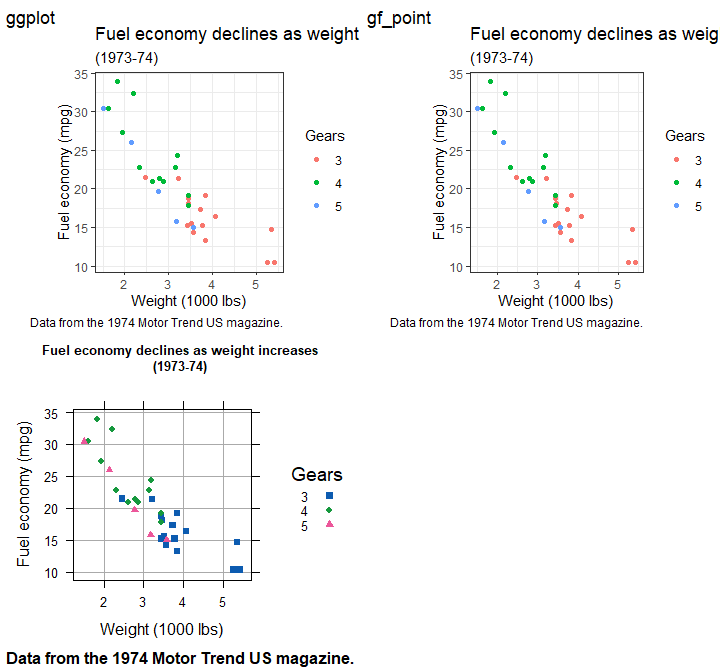
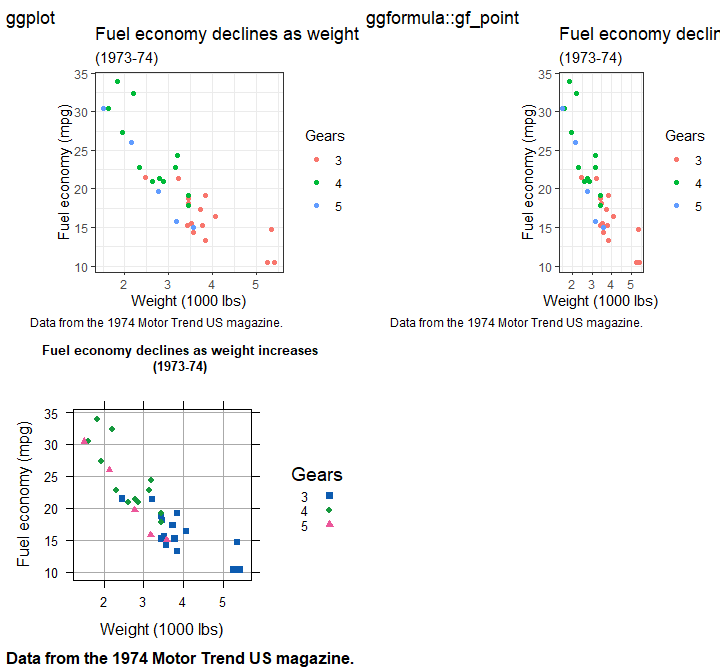
Dokumentation

diff --git a/README.md b/README.md
@@ -20,20 +20,12 @@ status](https://www.r-pkg.org/badges/version/stp25stat2)](https://CRAN.R-project
 
 ### Likertplot
 
+Die Link-Plots habe ich in ein separates Paket ausgelagert. Dort sind
+auch die Funktionen zur Erstellung der Tabellen enthalten.
+
 ``` r
 library(stp25likert)
 ```
-
-    ## Registered S3 method overwritten by 'stp25likert':
-    ##   method       from      
-    ##   print.likert stp25stat2
-
-    ## 
-    ## Attaching package: 'stp25likert'
-
-    ## The following objects are masked from 'package:stp25stat2':
-    ## 
-    ##     Likert, Tbll_likert
 
 ``` r
 #Res1 <- Tbll_likert( ~ ., DF2[, -5])
@@ -770,35 +762,28 @@ The cowplot package is a simple add-on to ggplot.
 
 ``` r
 library(ggplot2)
-
 library(grid)
 library(gridExtra)
 library(cowplot)
 
-
 theme_set(theme_half_open())
-set.seed(0815)                               # Create example data
-
+set.seed(0815)
+# Create example data
 data <-
   data.frame(x = 1:21,
-             # Create example data
              y = rnorm(21),
              group = rep(letters[1:3], 7))
-
+# Create ggplot2 plot
 p1 <-
-  ggplot(data, aes(x, y, color = group)) +    # Create ggplot2 plot
+  ggplot(data, aes(x, y, color = group)) +    
   geom_point(size = 5) +
   geom_line() # Draw default ggplot2 plot
 
-
 p2 <- ggplot(data, aes(x, group , color = group)) + geom_boxplot()
-
-
 
 title <-
   ggdraw() +
   draw_label("Arrange Plots", fontface = 'bold')
-
 
 p1 <- p1 +
   guides(colour = guide_legend(
@@ -811,7 +796,6 @@ p1 <- p1 +
       )
   )) +
   theme(legend.position  = c(.2, .5))
-
 
 legend <- get_legend(p1)
 ```
@@ -832,14 +816,10 @@ p2 <-
             ncol = 1,
             rel_heights = c(1, .5))
 
-
 plot_grid(
-  title,
-  NULL,
-  p1,
-  p2,
+  title, NULL,
+  p1,      p2,
   nrow = 2,
-  
   rel_widths =  c(1, .6),
   rel_heights = c(0.2, 1)
 )
@@ -908,7 +888,6 @@ display distributions of a quantitative variable
 *gf_bar()* for more general bar-graph style graphics
 
 ``` r
-#require(ggplot2)
 require(ggformula)
 ```
 
@@ -925,8 +904,7 @@ require(ggformula)
 
 ``` r
 #require(lattice)
- 
-
+#require(ggplot2) 
 theme_set(theme_bw())
 
 mtcars2 <- within(mtcars, {
@@ -935,6 +913,7 @@ mtcars2 <- within(mtcars, {
   cyl  <- factor(cyl)
   gear <- factor(gear)
 })
+
 #' ggplot
 p1 <- 
   ggplot(mtcars2) +
@@ -948,6 +927,7 @@ p1 <-
     y = "Fuel economy (mpg)",
     colour = "Gears"
   )
+
 #' ggformula
 p2 <-  
   gf_point(mpg ~ wt , data = mtcars2, color = ~ gear) +
@@ -955,11 +935,12 @@ p2 <-
     title = "Fuel economy declines as weight increases",
     subtitle = "(1973-74)",
     caption = "Data from the 1974 Motor Trend US magazine.",
-    tag = "gf_point",
+    tag = "ggformula::gf_point",
     x = "Weight (1000 lbs)",
     y = "Fuel economy (mpg)",
     colour = "Gears"
   )
+
 #' lattice 
 p3 <- 
   xyplot(
@@ -985,13 +966,19 @@ cowplot::plot_grid(p1, p2, p3, ncol=2)
 
 ### Meine Version vs plot.efflist
 
+Die Effectplots habe ich aus dem Package ‘effects’ übernommen, jedoch
+die Übergabe der Attribute angepasst, um die Formatierung zu
+vereinfachen.
+
 ``` r
+# Klassiker
 plot( effects::allEffects(fit2) )
 ```
 
 ![](README_files/figure-gfm/unnamed-chunk-17-1.png)<!-- -->
 
 ``` r
+# neue Version
 plot2( effects::allEffects(fit2) )
 ```
 
@@ -1014,17 +1001,52 @@ p1 <- plot2(e2,
 ```
 
 ``` r
-p2<-plot2(e2,
-  labels = stp25tools::get_label(mtcars2),
-  plot=FALSE)
+p2 <- plot2(e2, 
+            labels = stp25tools::get_label(mtcars2), 
+            plot = FALSE)
 
-cowplot::plot_grid(plotlist =p2, 
-                   labels = c('A', 'B', 'C'),
-                  # scale = c(1, .9, .8),
-                   rel_heights = c(3,4))
+cowplot::plot_grid(
+  plotlist = p2,
+  labels = c('A', 'B', 'C'),
+  # scale = c(1, .9, .8),
+  rel_heights = c(3, 4)
+)
 ```
 
 ![](README_files/figure-gfm/unnamed-chunk-20-1.png)<!-- -->
+
+``` r
+top_row <- cowplot::plot_grid(p2[[1]], p2[[2]], labels = c('B', 'C'), label_size = 12)
+cowplot::plot_grid(top_row, p2[[3]], labels = c('', 'A'), label_size = 12, ncol = 1)
+```
+
+![](README_files/figure-gfm/unnamed-chunk-21-1.png)<!-- -->
+
+``` r
+library(multipanelfigure)
+
+figure1 <- multi_panel_figure(columns = 4, rows = 2, panel_label_type = "none")
+# show the layout
+figure1
+```
+
+![](README_files/figure-gfm/unnamed-chunk-22-1.png)<!-- -->
+
+``` r
+figure1 %<>%
+  fill_panel(p2[[1]], column = 1:2, row = 1) %<>%
+  fill_panel(p2[[2]], column = 3:4, row = 1) %<>%
+  fill_panel(p2[[3]], column = 1:3, row = 2)  
+```
+
+    ## Warning in grabDL(warn, wrap, wrap.grobs, ...): one or more grobs overwritten
+    ## (grab WILL not be faithful; try 'wrap.grobs = TRUE')
+
+``` r
+figure1
+```
+
+![](README_files/figure-gfm/unnamed-chunk-22-2.png)<!-- -->
 
 Konfidenz-Band mit *geom_ribbon()*
 
@@ -1308,7 +1330,7 @@ p1 + p2 + p3 + p4 + plot(mydf) +
     plot_layout(ncol=2)
 ```
 
-![](README_files/figure-gfm/unnamed-chunk-27-1.png)<!-- -->
+![](README_files/figure-gfm/unnamed-chunk-29-1.png)<!-- -->
 
 ``` r
 require(ggeffects)
@@ -1370,7 +1392,7 @@ p1 <-plot(mydf)
 p1
 ```
 
-![](README_files/figure-gfm/unnamed-chunk-28-1.png)<!-- -->
+![](README_files/figure-gfm/unnamed-chunk-30-1.png)<!-- -->
 
 ``` r
 p1 +
@@ -1378,7 +1400,7 @@ p1 +
   theme(legend.position = "none")
 ```
 
-![](README_files/figure-gfm/unnamed-chunk-28-2.png)<!-- -->
+![](README_files/figure-gfm/unnamed-chunk-30-2.png)<!-- -->
 
 ``` r
 #plot(allEffects(mod))
@@ -1389,7 +1411,7 @@ ggplot(mydf, aes(x = x, y = predicted, group =group)) +
   facet_wrap(~group)
 ```
 
-![](README_files/figure-gfm/unnamed-chunk-28-3.png)<!-- -->
+![](README_files/figure-gfm/unnamed-chunk-30-3.png)<!-- -->
 
     theme_set(theme_ggeffects())
     p1<-ggpredict(fit, "am") |>
@@ -1466,7 +1488,7 @@ emmip(pigs.lm1,
       source ~ percent)
 ```
 
-![](README_files/figure-gfm/unnamed-chunk-29-1.png)<!-- -->
+![](README_files/figure-gfm/unnamed-chunk-31-1.png)<!-- -->
 
 ``` r
 plot(emmeans(pigs.lm2,  
@@ -1476,7 +1498,7 @@ plot(emmeans(pigs.lm2,
      )
 ```
 
-![](README_files/figure-gfm/unnamed-chunk-30-1.png)<!-- -->
+![](README_files/figure-gfm/unnamed-chunk-32-1.png)<!-- -->
 
 ``` r
 emmip(
@@ -1484,7 +1506,7 @@ emmip(
   source ~ percent)
 ```
 
-![](README_files/figure-gfm/unnamed-chunk-31-1.png)<!-- -->
+![](README_files/figure-gfm/unnamed-chunk-33-1.png)<!-- -->
 
 ``` r
 emmip(ref_grid(pigs.lm2, 
@@ -1495,7 +1517,7 @@ emmip(ref_grid(pigs.lm2,
       )
 ```
 
-![](README_files/figure-gfm/unnamed-chunk-32-1.png)<!-- -->
+![](README_files/figure-gfm/unnamed-chunk-34-1.png)<!-- -->
 
 ### Klassiker mit Effect()
 
@@ -1917,7 +1939,7 @@ legend(
 Hmisc::minor.tick(nx = 4, tick.ratio = 1 / 2)
 ```
 
-![](README_files/figure-gfm/unnamed-chunk-35-1.png)<!-- -->
+![](README_files/figure-gfm/unnamed-chunk-37-1.png)<!-- -->
 
 ## ECDF-Plot
 
@@ -1991,7 +2013,7 @@ xyplot(
 ```
 
 <figure>
-<img src="README_files/figure-gfm/unnamed-chunk-36-1.png"
+<img src="README_files/figure-gfm/unnamed-chunk-38-1.png"
 alt="Lattice xyplot mit Pfeilen und verlaufende Farben." />
 <figcaption aria-hidden="true">Lattice xyplot mit Pfeilen und
 verlaufende Farben.</figcaption>
@@ -2040,7 +2062,7 @@ segplot(
 )
 ```
 
-![](README_files/figure-gfm/unnamed-chunk-37-1.png)<!-- -->
+![](README_files/figure-gfm/unnamed-chunk-39-1.png)<!-- -->
 
 ### Spine Plots and Spinograms
 
@@ -2056,7 +2078,7 @@ ttnc <- margin.table(Titanic, c(1, 4))
 spineplot(ttnc, col = sequential_hcl(2, palette = "Purples 3"))
 ```
 
-![](README_files/figure-gfm/unnamed-chunk-38-1.png)<!-- -->
+![](README_files/figure-gfm/unnamed-chunk-40-1.png)<!-- -->
 
 ``` r
 # require(latticeExtra)
